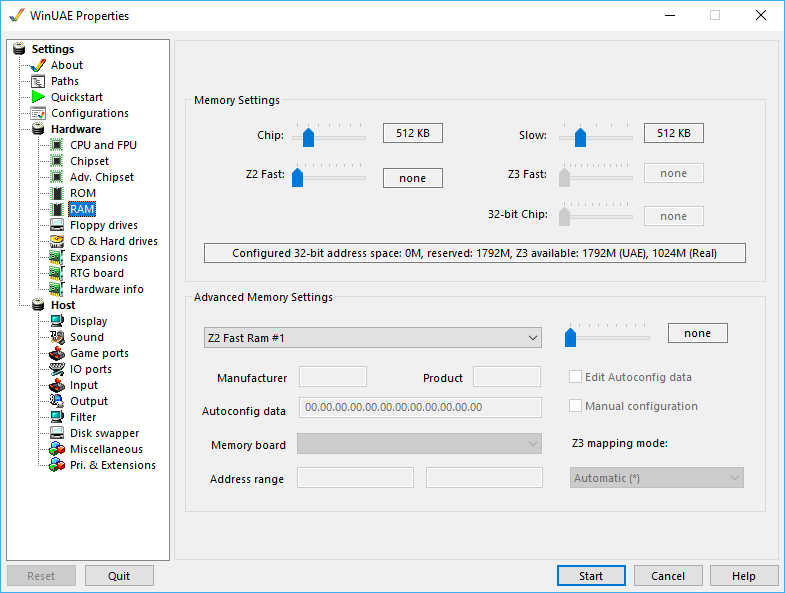
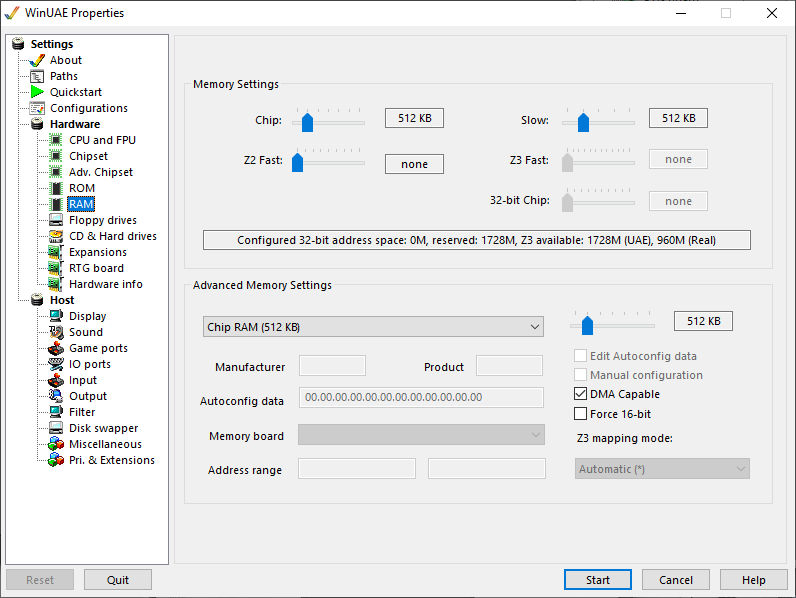
Updates for the WinUAE 4.9 release.

diff --git a/gui/misc.htm b/gui/misc.htm
@@ -18,27 +18,30 @@
     to escape this capture, you can just press the middle
     button.<br>
     <strong>Show GUI on startup</strong> will allow you to
-    double-click a .uae configuration file without it immediately
-    launching the emulation.<br>
+    double-click a .uae <a href=
+    "configurations.htm">configuration</a> file without it
+    immediately launching the emulation.<br>
     <strong>Use CTRL-F11 to quit</strong> Just press this key
     combination to quit WinUAE. If this option is enabled, the
     ALT-F4 combination can be used by the Amiga properly, and
     CTRL-F11 will quit WinUAE.<br>
-    <strong>Don't show taskbar button</strong>. Removes the taskbar
+    <strong>Don't show taskbar button</strong> Removes the taskbar
     button.<br>
-    <strong>Don't show notification icon.</strong> Removes the
+    <strong>Don't show notification icon</strong> Removes the
     WinUAE icon from the notification area.<br>
-    <strong>Always on top</strong> Make sure WinUAE window is
-    always on top of other windows.<br>
+    <strong>Main window always on top</strong> Make sure WinUAE
+    window is always on top of other windows.<br>
+    <strong>GUI window always on top</strong>. Make sure the GUI
+    window is always on top of the windows.<br>
     <strong>Disable screensaver</strong> Temporarily stops screen
     saver feature for the display when using WinUAE<br>
-    <strong>Syncronize clock</strong> Synchronizes Amiga clock with
-    the PC clock.<br>
+    <strong>Syncronize clock</strong> Synchronizes Amiga <a href=
+    "advchipset.htm">clock</a> with the PC clock.<br>
     <strong>One second reboot pause</strong> introduces a short
     pause before a reboot.<br>
     <strong>Faster RTG.</strong> Disables non needed emulation
     features such as internal bitplace emulation and copper, when
-    RTG (P96) is in use.<br>
+    <a href="rtgboard.htm">RTG</a> (P96) is in use.<br>
     <strong>Clipboard sharing</strong> allows you to share the
     contents of your clipboard between the Amiga and Windows if
     enabled.<br>
@@ -48,11 +51,12 @@
     <strong>Native on-screen display</strong> overrides Display
     setting to use only native screen modes.<br>
     <strong>RTG on-screen display</strong> overrides Display
-    setting to use only RTG screen modes.<br>
-    <strong>Create WinUAElog.txt log</strong> can be enabled to
+    setting to use only <a href="rtgboard.htm">RTG</a> screen
+    modes.<br>
+    <strong>Create winuaelog.txt log</strong> can be enabled to
     debug WinUAE when experiencing problems (see <a href=
     "paths.htm">Paths</a> for more settings)<br>
-    <strong>Log illegal memory access</strong> can be enabled to
+    <strong>Log illegal memory accesses</strong> can be enabled to
     debug memory access to protected or unallocated memory
     areas.<br>
     <strong>Blank unused displays</strong> opens full screen
@@ -66,13 +70,14 @@
     <strong>Black frame insertion</strong> is supported in variable
     refresh modes.<br>
     <strong>Master floppy write protection</strong> overrides write
-    protection on the Floppy drives window, so you can't
-    accidentally untick it.<br>
+    protection on the <a href="floppies.htm">Floppy</a> drives
+    window, so you can't accidentally untick it.<br>
     <strong>Master harddrive write protection</strong> overrides
     write protection on the Hard drives window, so you can't
     accidentally untick it.<br>
     <strong>Hide all UAE autoconfig boards</strong> will hide any
-    extra Zorro boards from the emulator.<br>
+    extra <a href="hardwareinfo.htm">Zorro</a> boards from the
+    emulator.<br>
     <strong>Right Control = Right Windows key</strong>. Map the
     Windows key to a Right Ctrl key for some keyboards.<br>
     <strong>Windows shutdown / logoff notification.</strong>
@@ -81,17 +86,19 @@
     <strong>Warn when attempting to close window</strong>. Display
     a warning if window close is attempted.<br>
     <strong>Power led dims when audio filter is disabled</strong>.
-    Dim the power light when audio filter is disabled (see Sound
-    tab).<br>
+    Dim the power light when audio filter is disabled (see <a href=
+    "sound.htm">Sound</a> tab).<br>
     <strong>Automatically capture mouse when window is
     activated.</strong> Saves having to capture mouse when swapping
     windows to Winuae.<br>
-    <b>Debug memory space</b> Debug accesses to memory space
-    (memwatch).</p>
+    <strong>Debug memory space</strong> Debug accesses to memory
+    space (memwatch).<br>
+    <strong>Force hard reset if CPU halted.</strong> Ensures a full
+    hard reset when the CPU is halted.</p>
     <h1>Miscellaneous Options</h1>
     <p><span><strong>SCSI and CD/DVD access .</strong> Select type
-    of ASPI layer to use, e.g. SCSI Emulation, SPTI, SPTI + SCSI
-    Scan.</span><br>
+    of <a href="harddrives.htm">ASPI layer</a> to use, e.g. SCSI
+    Emulation, SPTI, SPTI + SCSI Scan.</span><br>
     <strong>Windowed style.</strong> Select the following styles:
     Borderless, Minimal, Standard or Extended<br>
     <strong>Graphics API</strong> to specify API to use for

diff --git a/gui/advchipset.htm b/gui/advchipset.htm
@@ -18,12 +18,13 @@
     clock. The RF5C01A is used in the A1200.</p>
     <h1>CIA-A TOD Clock Source</h1>
     <p>These options allow changing the TOD (Time Of Day) clock
-    source. The Amiga 500 used the Vertical Sync as signal for the
-    real time clock, which is not precise. It is the default
-    setting for compatibility reasons.</p>
+    source for CIA-A (Complex Interface Adapter A) chip.<br>
+    The Amiga 500 used the Vertical Sync as signal for the real
+    time clock, which is not precise. It is the default setting for
+    compatibility reasons.</p>
     <h1>Chipset Features</h1>
     <p><strong>CIA ROM Overlay</strong> - CIA/Gayle overlay
-    emulation<br>
+    emulation.<br>
     <strong>A1000 Boot RAM/ROM</strong> - This is enabled when
     8/64K ROM is used in the A1000.<br>
     <strong>DF0: ID Hardware</strong> - No ID is used if DF0: is a
@@ -43,46 +44,50 @@
     <strong>A600/A1200 IDE</strong> - Enable use of the Amiga 600
     or 1200 internal IDE port.<br>
     <strong>A4000/A4000T IDE</strong> - Enable use of the Amiga
-    4000 internal IDE port(s).<br>
+    4000 or 4000T internal IDE port(s).<br>
     <strong>CDTV-CR</strong> - CDTV Cost Reduced or MkII clone
-    (never publicly released)<br>
-    <strong>ROM Mirror (E0)</strong> - 1 MB ROM image support<br>
-    <strong>ROM Mirror(A8)</strong> - 2 MB ROM image support<br>
+    (never publicly released).<br>
+    <strong>ROM Mirror (E0)</strong> - 1 MB ROM image support.<br>
+    <strong>ROM Mirror (A8)</strong> - 2 MB ROM image support.<br>
     <strong>PCMCIA</strong> - Enable use of PCMCIA port featured on
-    the A600/A1200.<br>
-    <strong>KB Reset Warning</strong> - Keyboard reset warning<br>
+    the A600/A1200. Useful for external memory, storage and other
+    uses.<br>
+    <strong>KB Reset Warning</strong> - Keyboard reset warning.<br>
     <strong>No-EHB Denise</strong> - No Extra Half Bright mode on
     Denise chip found on A1000.<br>
     <strong>C00000 is Fast RAM</strong> - Forces memory address
     into Fast RAM area.<br>
-    <strong>CIA TOD Bug</strong> - Emulate the CIA Time of Day
-    bug.<br>
+    <strong>CIA TOD Bug</strong> - Emulate the Complex Interface
+    Adapter (CIA) Time of Day bug.<br>
     <strong>Z3 Autoconfig</strong> - Enable Zorro3
     Autoconfiguration.<br>
-    <strong>A1000 Agnus (8361/8367)</strong> - A1000's Agnus
-    chip.<br>
+    <strong>A1000 Agnus (8361/8367)</strong> - A1000's Agnus chip
+    (looks after Chip access to CPU and other chips), it includes
+    blitter and copper.<br>
     <strong>1MB Chip / 0.5M+0.5M</strong> - Enable 1MB Chip RAM
     made of two 512KB chips.<br>
     <strong>Custom register byte write bug</strong> - Enable a
     custom register byte write bug feature.<br>
     <strong>Composite color burst</strong> - Enable composite color
     burst to update colors.<br>
-    <strong>Toshiba Gary</strong> - Optional Toshiba Gary slow
-    (chip ram like) Z2 IO.<br>
+    <strong>Toshiba Gary</strong> - Optional Toshiba Gary (Gate
+    Array) slow (chip ram like) Z2 IO.Gary looks after bus control
+    and functions for floppy drivers.<br>
     <strong>KS ROM has Chip RAM speed</strong> Set speed of
     Kickstart ROM to Chip RAM speed.<br>
-    <strong>CIA 391078-01</strong> - Enable CIA chip which has a
-    bug in IO port output mode, reading output mode port will
-    always read output mode data state.<br>
+    <strong>CIA 391078-01</strong> - Enable Complex Interface
+    Adapter 391078-01 chip which has a bug in IO port output mode,
+    reading output mode port will always read output mode data
+    state.<br>
     <strong>Unmapped address space</strong> - Set unmapped address
     space to Floating, all zeros or all ones.</p>
     <h1>Internal SCSI Hardware</h1>
-    <p><strong>A3000 WD33C93 SCSI</strong> - Emulate the A3000 SCSI
-    controller.<br>
-    <strong>A4000T NCR53C710 SCSI</strong> - Emulate the A4000T
-    SCSI controller.<br>
-    <strong>CDTV WD33C93 SCSI</strong> - Enable the CDTV SCSI
-    controller.</p>
+    <p><strong>A3000 WD33C93 SCSI</strong> - Emulate the A3000
+    Western Digital 33C93 SCSI controller.<br>
+    <strong>A4000T NCR53C710 SCSI</strong> - Emulate the A4000T NCR
+    53C710 SCSI controller.<br>
+    <strong>CDTV WD33C93 SCSI</strong> - Enable the CDTV Western
+    Digital 33C93 SCSI controller.</p>
     <h1>Chipset Revision</h1>
     <p><strong>Ramsey revision</strong> - Specify the specific
     version of the Ramsey chip (default is 0F). This is the gate

diff --git a/gui/display.htm b/gui/display.htm
@@ -35,6 +35,8 @@
     <strong>VGA mode Resolution Autoswitch</strong><br>
     <strong>Resolution</strong> can be set to Lores, Hires or Super
     Hires.<br>
+    <strong>Overscan</strong> can be set to TV (narrow, standard or
+    wide), Overscan, Overscan+ or Extreme.<br>
     <strong>Resolution autoswitch</strong> can be disabled, always
     on, 10%, 33% or 66%.<br>
     <strong>Refresh rate</strong> will set how often the screen
@@ -45,7 +47,7 @@
     Second to the display to speed up or slow down the display
     (default is 50 fps)</p>
     <p><strong>Brightness</strong> levels can be set for the
-    correct display set up.<br>
+    correct display set up (-200 to 200).<br>
     <strong>Reset to defaults</strong> is used to update brightness
     settings back to defaults.</p>
     <h1>Centering</h1>

diff --git a/gui/ram.htm b/gui/ram.htm
@@ -24,10 +24,15 @@
     code, Product code and Autoconfig data values.<br>
     <strong>Manual configuration</strong> Change the Address range
     values.<br>
+    <strong>DMA capable</strong> Enable Direct Memory Address
+    capability.<br>
+    <strong>Force 16-bit</strong> Use 16 bit memory addressing.<br>
     <strong>Z3 mapping mode.</strong> Select Automatic, UAE or real
     Zorro 3 mapping mode.<br>
     <strong>Memory board</strong> Select a UAE, DKB, Kupke or Supra
-    memory board.</p>
+    memory board.<br>
+    <strong>Address range</strong> Set address range for
+    memory.</p>
   </article>
   <footer>
     Help content is under the terms of the <a href=
